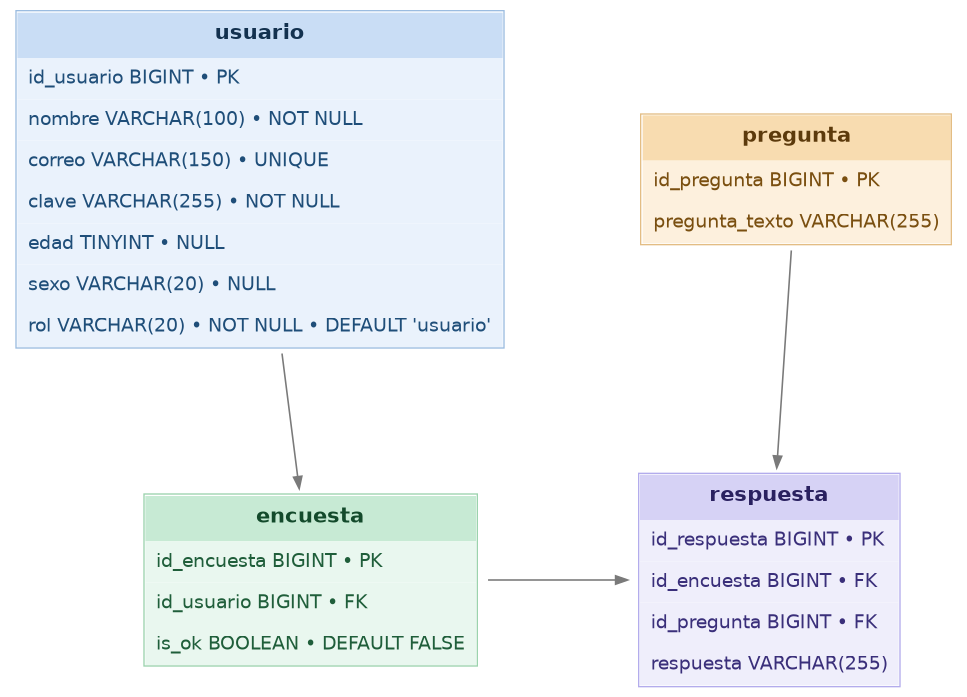
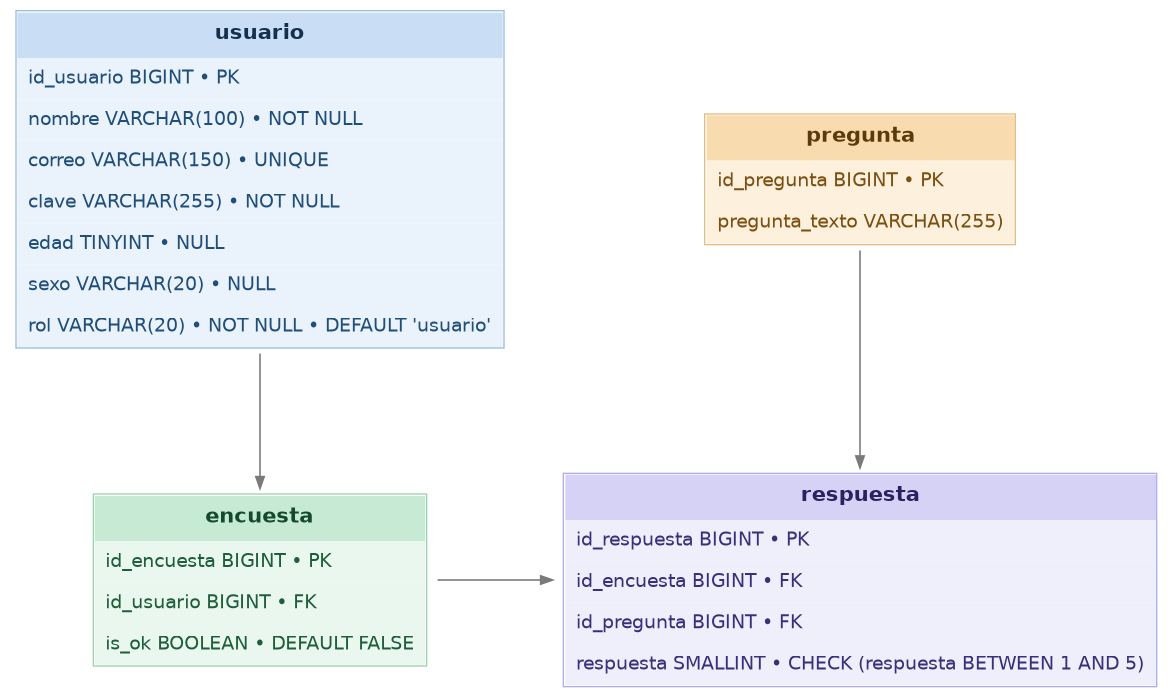
feat:se cambió la documentación para responder de 1 a 5 las preguntas, muy en desacuerdo o muy de acuerdo

diff --git a/plan/02-modelo-datos.md b/plan/02-modelo-datos.md
@@ -11,12 +11,15 @@ con relaciones, y seeders para las preguntas fijas y un administrador inicial.
      default `'usuario'`), timestamps.
    - `encuesta` — id, id_usuario (FK → usuario), is_ok (boolean, default false), timestamps.
    - `pregunta` — id, pregunta_texto (VARCHAR 255), timestamps.
-   - `respuesta` — id, id_encuesta (FK → encuesta), id_pregunta (FK → pregunta), respuesta (VARCHAR 255),
-     timestamps. Índice único (id_encuesta, id_pregunta) para 1 respuesta por pregunta.
+   - `respuesta` — id, id_encuesta (FK → encuesta), id_pregunta (FK → pregunta), respuesta (SMALLINT
+     / `smallInteger`, not null, con **CHECK `respuesta BETWEEN 1 AND 5`** — en Postgres vía `->check(...)`
+     o `DB::statement` en el mismo migration según lo que soporte la versión de Laravel), timestamps.
+     Índice único (id_encuesta, id_pregunta) para 1 respuesta por pregunta.
 2. **Modelos Eloquent** (`app/Models/`): `Usuario`, `Encuesta`, `Pregunta`, `Respuesta`.
    - Relaciones: Usuario hasMany Encuesta; Encuesta belongsTo Usuario, hasMany Respuesta;
      Pregunta hasMany Respuesta; Respuesta belongsTo Encuesta y Pregunta.
    - `clave` en `$hidden` y casteada con hash (cifrado, nunca texto plano).
+   - En `Respuesta`, castear `respuesta` a `'integer'` en `$casts`.
 3. **Seeders**:
    - `PreguntaSeeder` — preguntas fijas de la encuesta (definir lista con el usuario).
    - `AdminSeeder` — 1 usuario con `rol = 'admin'` (credenciales desde `.env`, no hardcodear).
@@ -32,6 +35,7 @@ con relaciones, y seeders para las preguntas fijas y un administrador inicial.
 ## Tests
 - `tests/Feature/Models/RelacionesTest.php` — relaciones y cascada esperada.
 - `tests/Feature/Database/SeedersTest.php` — seeders cargan preguntas + admin.
+- Nota: el CHECK rechaza a nivel BD valores `<1` o `>5` (además de la validación en la API, fase 04).
 
 ## Notas
 - Confirmar con el usuario el **listado exacto de preguntas** antes de sembrar.

diff --git a/plan/05-admin-backend.md b/plan/05-admin-backend.md
@@ -5,7 +5,8 @@ Endpoints solo para `rol = admin`: ver métricas de la encuesta, listar usuarios
 cada usuario, editar y eliminar usuarios. Proteger con middleware de rol.
 
 ## Endpoints (bajo `/api/admin`, requieren `auth:sanctum` + middleware `EsAdmin`)
-- `GET    /metricas` — métricas agregadas (respuestas por pregunta, % por edad/sexo, completadas).
+- `GET    /metricas` — métricas agregadas: **promedio (AVG) por pregunta** y **distribución de valores 1–5**
+  por pregunta, % por edad/sexo, completadas.
 - `GET    /usuarios` — listado de usuarios (paginado).
 - `GET    /usuarios/{id}/respuestas` — encuesta + respuestas de un usuario.
 - `PUT    /usuarios/{id}` — editar nombre, clave, edad, sexo, correo (y rol si se confirma).
@@ -13,7 +14,9 @@ cada usuario, editar y eliminar usuarios. Proteger con middleware de rol.
 
 ## Pasos
 1. Middleware `EsAdmin` que verifica `rol === 'admin'` (registrar en Kernel) → `403` si no.
-2. `Admin/MetricasController` — consultas agregadas (agrupar por pregunta, edad, sexo, `is_ok`).
+2. `Admin/MetricasController` — consultas agregadas: como `respuesta` es numérica (1–5), calcular
+   `AVG(respuesta)` y conteo por valor (distribución 1–5) agrupando por pregunta; además agrupar por
+   edad, sexo, `is_ok`.
 3. `Admin/UsuarioController` — index, respuestas, update, destroy.
 4. Validación en update (correo único excluyendo al propio usuario; clave hasheada si cambia).
 5. Registrar rutas con grupo `prefix('admin')->middleware(['auth:sanctum','es_admin'])`.

diff --git a/plan/04-encuesta-backend.md b/plan/04-encuesta-backend.md
@@ -16,14 +16,14 @@ atrás a cambiar respuestas), envíe la encuesta y consulte su estado. Incluir l
 ## Pasos
 1. `EncuestaController` (Api): iniciar, show, estado, enviar.
 2. `RespuestaController` (Api): upsert de respuesta por pregunta (vuelta atrás = volver a `PUT`).
-3. Validar que la pregunta exista y la respuesta cumpla formato; impedir editar si `is_ok = true`
+3. Validar que la pregunta exista y la respuesta sea un **entero entre 1 y 5**; impedir editar si `is_ok = true`
    (o permitir reapertura según se confirme con el usuario).
 4. `enviar` exige respuestas completas; si falta alguna → `422` indicando cuáles.
 5. Endpoint/ruta pública de compartir (landing que invita a registrarse y responder).
 
 ## Archivos a tocar
 - `app/Http/Controllers/Api/EncuestaController.php`, `.../RespuestaController.php`.
-- `app/Http/Requests/GuardarRespuestaRequest.php`.
+- `app/Http/Requests/GuardarRespuestaRequest.php` — regla `'respuesta' => ['required','integer','min:1','max:5']`.
 - `routes/api.php`.
 
 ## Criterio de "hecho"
@@ -33,6 +33,7 @@ atrás a cambiar respuestas), envíe la encuesta y consulte su estado. Incluir l
 ## Tests
 - `tests/Feature/Encuesta/FlujoEncuestaTest.php` — iniciar, responder, reabrir respuesta, enviar.
 - `tests/Feature/Encuesta/EnviarIncompletaTest.php` — rechazo si faltan respuestas.
+- `tests/Feature/Encuesta/RespuestaInvalidaTest.php` — `422` ante respuestas fuera de rango (`0`, `6`, no numérico).
 
 ## Notas
 - Confirmar con el usuario si tras `enviar` se permite editar respuestas.

diff --git a/plan/09-frontend-admin.md b/plan/09-frontend-admin.md
@@ -6,8 +6,9 @@ cada usuario y editar/eliminar usuarios. Consume `/api/admin/*` (fase 05).
 
 ## Pasos
 1. Ruta privada `src/pages/Admin/` accesible solo si el usuario tiene `rol = 'admin'` (si no, redirige).
-2. **Dashboard de métricas** (`GET /api/admin/metricas`): visualizaciones simples (respuestas por
-   pregunta, distribución por edad/sexo, % completadas).
+2. **Dashboard de métricas** (`GET /api/admin/metricas`): visualizaciones simples — **promedio por
+   pregunta (1–5)** y **distribución de respuestas 1–5** por pregunta, distribución por edad/sexo,
+   % completadas.
 3. **Lista de usuarios** (`GET /api/admin/usuarios`) con paginación y búsqueda.
 4. **Detalle de respuestas** de un usuario (`GET /api/admin/usuarios/{id}/respuestas`).
 5. **Editar** usuario (`PUT`) y **eliminar** usuario (`DELETE`) con confirmación.

diff --git a/context/context_backend.md b/context/context_backend.md
@@ -34,7 +34,8 @@
   **rol** (`usuario` | `admin`, default `usuario`).
 - **encuesta**: id_encuesta, id_usuario (FK), is_ok (bool, default false). 1 por usuario.
 - **pregunta**: id_pregunta, pregunta_texto. Set fijo (seeder).
-- **respuesta**: id_respuesta, id_encuesta (FK), id_pregunta (FK), respuesta. Único (encuesta, pregunta).
+- **respuesta**: id_respuesta, id_encuesta (FK), id_pregunta (FK), respuesta (SMALLINT, 1-5,
+  CHECK). Único (encuesta, pregunta).
 
 Relaciones: Usuario 1—N Encuesta; Encuesta 1—N Respuesta; Pregunta 1—N Respuesta.
 

diff --git a/plan/08-frontend-encuesta.md b/plan/08-frontend-encuesta.md
@@ -8,6 +8,9 @@ respuestas), enviar y ver el estado de finalización.
 1. Página `src/pages/Encuesta/` que carga preguntas (`GET /api/preguntas`) y la encuesta del usuario
    (`GET /api/encuesta`) para reanudar.
 2. Componente de navegación pregunta-a-pregunta: avanzar, **retroceder** y editar respuestas previas.
+   La respuesta se captura como **escala 1–5** (radios o botones) con **anclas de texto en los extremos**
+   (ej. 1 = "Nunca" … 5 = "Siempre"); las anclas son solo display, en BD se guarda el número. Validación
+   en cliente: entero 1–5, requerido, coherente con el backend. *(Confirmar el texto de las anclas.)*
 3. Guardado de cada respuesta (`PUT /api/encuesta/respuestas/{idPregunta}`) — autosave o por paso.
 4. Indicador de progreso (respondidas/total) usando `GET /api/encuesta/estado`.
 5. Enviar (`POST /api/encuesta/enviar`): bloquear si está incompleta y mostrar qué falta.

diff --git a/docs/requisitos_funcionales.md b/docs/requisitos_funcionales.md
@@ -7,7 +7,7 @@
 - EL usuario puede eliminar la cuenta
 - El usuario puede crear e iniciar la cuenta con google
 - El usuario puede iniciar una encuesta
-- El usuario puede responder preguntas
+- El usuario puede responder preguntas del 1 al 5
 - El usuario puede volver a preguntas anteriores para cambiar la respuesta
 - El usuario puede enviar la encuesta
 - El usuario puede revisar si terminó la encuesta

diff --git a/plan/README.md b/plan/README.md
@@ -21,7 +21,7 @@ ve métricas y gestiona usuarios.
 - `usuario` — id_usuario, nombre, correo (unique), clave (cifrada), edad, sexo, **rol** (`usuario`/`admin`).
 - `encuesta` — id_encuesta, id_usuario (FK), is_ok (bool, default false). Una instancia por usuario.
 - `pregunta` — id_pregunta, pregunta_texto. Set fijo, precargado por seeder.
-- `respuesta` — id_respuesta, id_encuesta (FK), id_pregunta (FK), respuesta.
+- `respuesta` — id_respuesta, id_encuesta (FK), id_pregunta (FK), respuesta (SMALLINT, valor 1–5, CHECK 1..5).
 
 ## Convenciones clave (de `CLAUDE.md`)
 - `camelCase` para variables y funciones; principios SOLID.